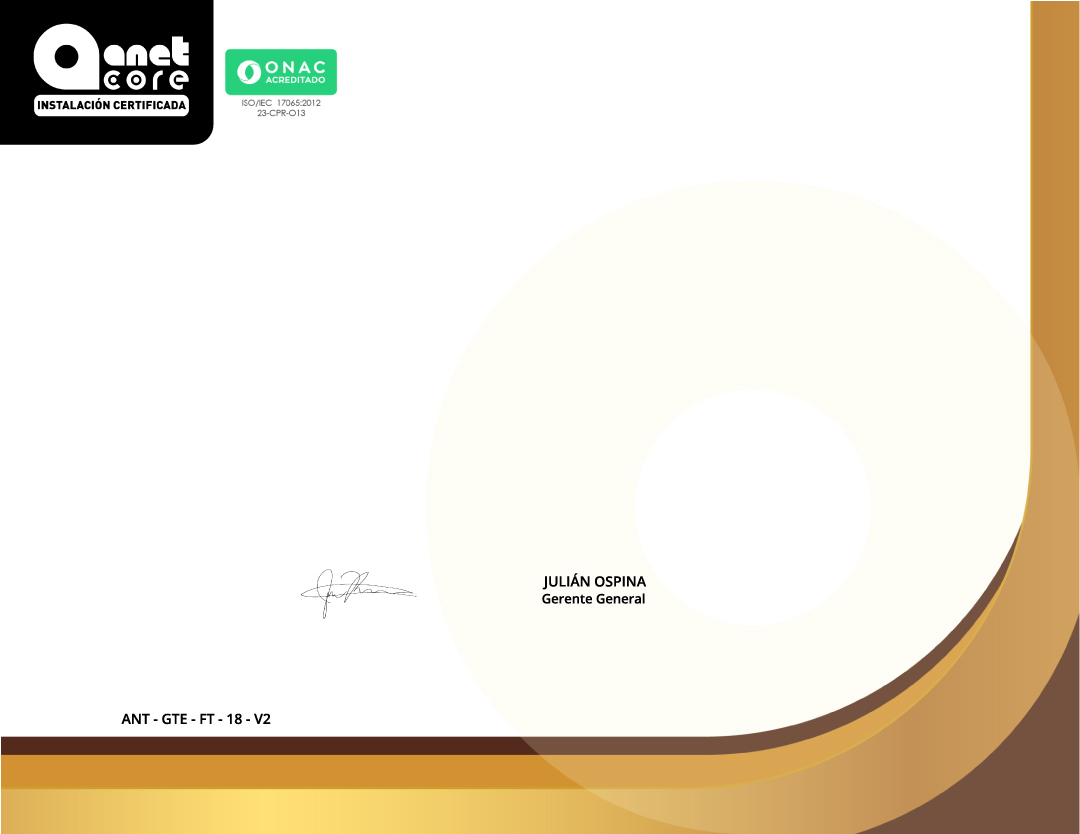
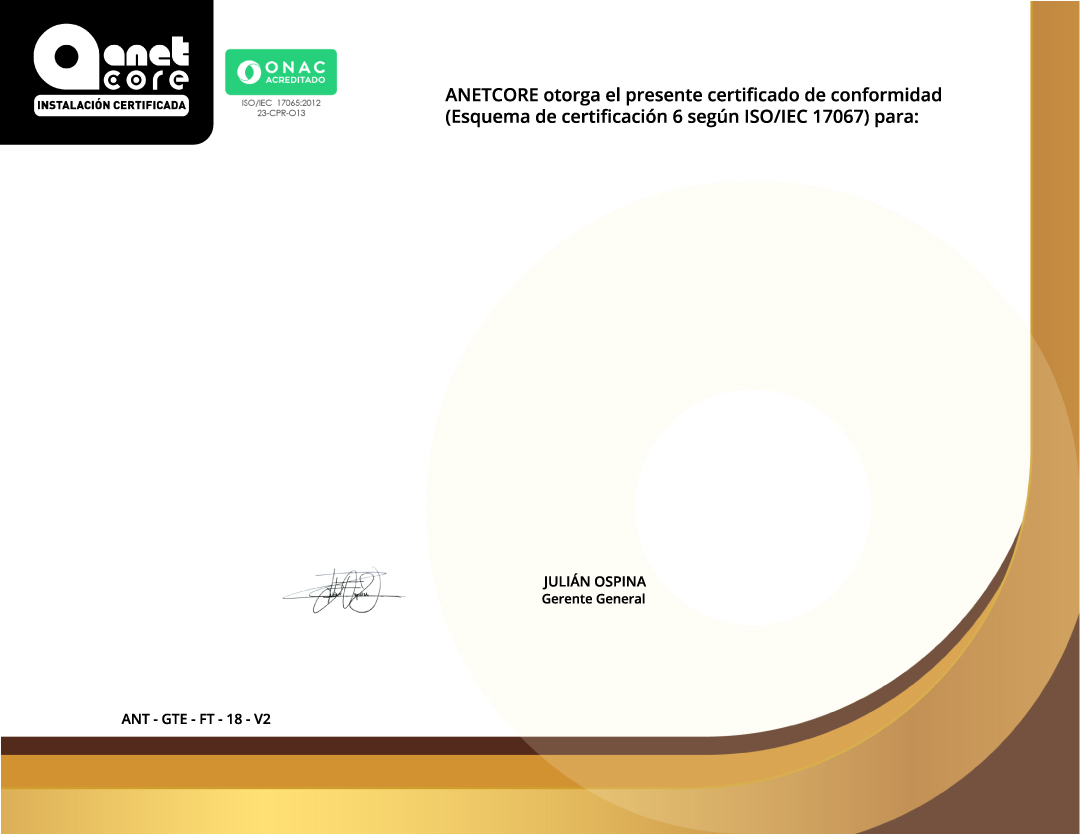
Actualizar imagen de fondo y ajustes en plantilla del certificado

Changed region(s): [[0.3972, 0.0935, 0.8861, 0.1559], [0.275, 0.6859, 0.3667, 0.7482]]

diff --git a/templates/plantilla-certificado.html b/templates/plantilla-certificado.html
@@ -22,8 +22,7 @@
                         <!-- Columna derecha - Título principal -->
                         <td width="70%" style="vertical-align: top; text-align: right;">
                             <div style="font-size: 14px; font-weight: bold; color: #603904; text-align: right;">
-                                ANETCORE otorga el presente certificado de conformidad<br>
-                                (Esquema de certificación 6 según ISO/IEC 17067) para:
+                                <br><br>
                             </div>
                         </td>
                     </tr>
